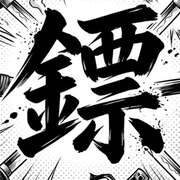
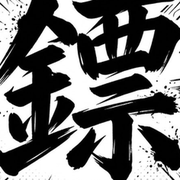
1

diff --git a/index.html b/index.html
@@ -3,13 +3,14 @@
 <head>
 <meta charset="utf-8">
 <meta name="viewport" content="width=device-width,initial-scale=1">
-<title>Asc鏢局</title>
+<title>ASC鏢局</title>
 <meta name="description" content="ASC 鏢局：喵武士 NFT 鑄造、解盲、VIP 換裝、轉蛋、配件市場，與 ASC 點數金庫的即時幣值、買入和兌換。">
-<meta property="og:title" content="Asc鏢局">
+<meta property="og:title" content="ASC鏢局">
 <meta property="og:description" content="一個錢包，行走兩個江湖：喵武士 NFT 與 ASC 點數金庫。">
 <meta name="theme-color" content="#070d1f">
-<link rel="icon" type="image/png" sizes="64x64" href="./assets/favicon.png?v=20261102c">
-<link rel="apple-touch-icon" href="./assets/apple-touch-icon.png?v=20261102c">
+<link rel="icon" type="image/png" sizes="32x32" href="./assets/favicon-32.png?v=20261102d">
+<link rel="icon" type="image/png" sizes="64x64" href="./assets/favicon.png?v=20261102d">
+<link rel="apple-touch-icon" href="./assets/apple-touch-icon.png?v=20261102d">
 <link rel="preconnect" href="https://fonts.googleapis.com">
 <link rel="preconnect" href="https://fonts.gstatic.com" crossorigin>
 <link href="https://fonts.googleapis.com/css2?family=Noto+Serif+TC:wght@600;900&family=Noto+Sans+TC:wght@400;500;700&display=swap" rel="stylesheet">

diff --git a/privacy/index.html b/privacy/index.html
@@ -6,8 +6,9 @@
 <title>隱私權政策｜ASC 鏢局</title>
 <meta name="description" content="江湖鏢局 Discord 機器人與 ASC 鏢局網站的隱私權政策">
 <meta name="theme-color" content="#070d1f">
-<link rel="icon" type="image/png" sizes="64x64" href="../assets/favicon.png?v=20261102c">
-<link rel="apple-touch-icon" href="../assets/apple-touch-icon.png?v=20261102c">
+<link rel="icon" type="image/png" sizes="32x32" href="../assets/favicon-32.png?v=20261102d">
+<link rel="icon" type="image/png" sizes="64x64" href="../assets/favicon.png?v=20261102d">
+<link rel="apple-touch-icon" href="../assets/apple-touch-icon.png?v=20261102d">
 <link rel="preconnect" href="https://fonts.googleapis.com">
 <link rel="preconnect" href="https://fonts.gstatic.com" crossorigin>
 <link href="https://fonts.googleapis.com/css2?family=Noto+Serif+TC:wght@600;900&family=Noto+Sans+TC:wght@400;500;700&display=swap" rel="stylesheet">

diff --git a/terms/index.html b/terms/index.html
@@ -6,8 +6,9 @@
 <title>服務條款｜ASC 鏢局</title>
 <meta name="description" content="江湖鏢局 Discord 機器人與 ASC 鏢局網站的服務條款">
 <meta name="theme-color" content="#070d1f">
-<link rel="icon" type="image/png" sizes="64x64" href="../assets/favicon.png?v=20261102c">
-<link rel="apple-touch-icon" href="../assets/apple-touch-icon.png?v=20261102c">
+<link rel="icon" type="image/png" sizes="32x32" href="../assets/favicon-32.png?v=20261102d">
+<link rel="icon" type="image/png" sizes="64x64" href="../assets/favicon.png?v=20261102d">
+<link rel="apple-touch-icon" href="../assets/apple-touch-icon.png?v=20261102d">
 <link rel="preconnect" href="https://fonts.googleapis.com">
 <link rel="preconnect" href="https://fonts.gstatic.com" crossorigin>
 <link href="https://fonts.googleapis.com/css2?family=Noto+Serif+TC:wght@600;900&family=Noto+Sans+TC:wght@400;500;700&display=swap" rel="stylesheet">

diff --git a/bind/index.html b/bind/index.html
@@ -9,8 +9,9 @@
 <meta property="og:title" content="江湖鏢局金庫">
 <meta property="og:description" content="科技江湖・鏈上鏢局：持有越久，換得越多。">
 <meta property="og:image" content="../assets/og.jpg">
-<link rel="icon" type="image/png" sizes="64x64" href="../assets/favicon.png?v=20261102c">
-<link rel="apple-touch-icon" href="../assets/apple-touch-icon.png?v=20261102c">
+<link rel="icon" type="image/png" sizes="32x32" href="../assets/favicon-32.png?v=20261102d">
+<link rel="icon" type="image/png" sizes="64x64" href="../assets/favicon.png?v=20261102d">
+<link rel="apple-touch-icon" href="../assets/apple-touch-icon.png?v=20261102d">
 <link rel="preconnect" href="https://fonts.googleapis.com">
 <link rel="preconnect" href="https://fonts.gstatic.com" crossorigin>
 <link href="https://fonts.googleapis.com/css2?family=Noto+Serif+TC:wght@600;900&display=swap" rel="stylesheet">

diff --git a/AGENTS.md b/AGENTS.md
@@ -44,4 +44,4 @@
 - 頂部導覽列縮小：logo、連結錢包、狀態 chip、語言切換、三分頁、子分頁的高度與字級都變小；按鈕底色改半透明。
 - 網站 logo 換成「鏢」字刀劍漫畫圖：`assets/logo.png`（192×192，裁中間）取代左上角的「ASC」文字方塊（首頁、綁定頁、shared/core.js）；`favicon.png`、`apple-touch-icon.png`、`icon-512.png` 也換成同一張；移除 `favicon.svg`（舊的 ASC 文字圖示，移到 `_to_delete/`）。
 - 導覽列（`app/style.css` 最後一段）：上排 品牌｜三分頁 `#sw3`（在 `.toprow .mid`）｜錢包（`.status` 狀態 chip 移進 `.wallet`，小字排在按鈕下方）｜語言切換（最右上）；子選單改成貼齊的底線分頁（NFT 紅線、Token 藍線），首頁沒有子選單時整列隱藏。手機只在金庫未驗證／已標記時顯示 chip。桌機約 116px（原 195）。`index.html`、`privacy`、`terms` 的 `app/*.css|js` 加 `?v=20261102` 避免瀏覽器快取舊檔，之後改 CSS/JS 記得換版本號。
-- 網站圖示改成跟左上角 logo 一樣：從原圖裁中間（「鏢」字放大）、25% 圓角、深紫藍細框、四角透明，`favicon.png`（64）、`icon-512.png`；`apple-touch-icon.png` 同樣裁切但維持方形無框（iOS 自己裁圓角）。圖示連結加 `?v=20261102c`。首頁 `<title>`／`og:title` 改為「Asc鏢局」。
+- 網站圖示改成跟左上角 logo 一樣：從原圖裁更緊（「鏢」字填滿）、20% 圓角、無框（16px 分頁才看得清楚）、四角透明，`favicon-32.png`、`favicon.png`（64）、`icon-512.png`；`apple-touch-icon.png` 同樣裁切但維持方形（iOS 自己裁圓角）。圖示連結加 `?v=20261102d`。首頁 `<title>`／`og:title` 改為「ASC鏢局」。
